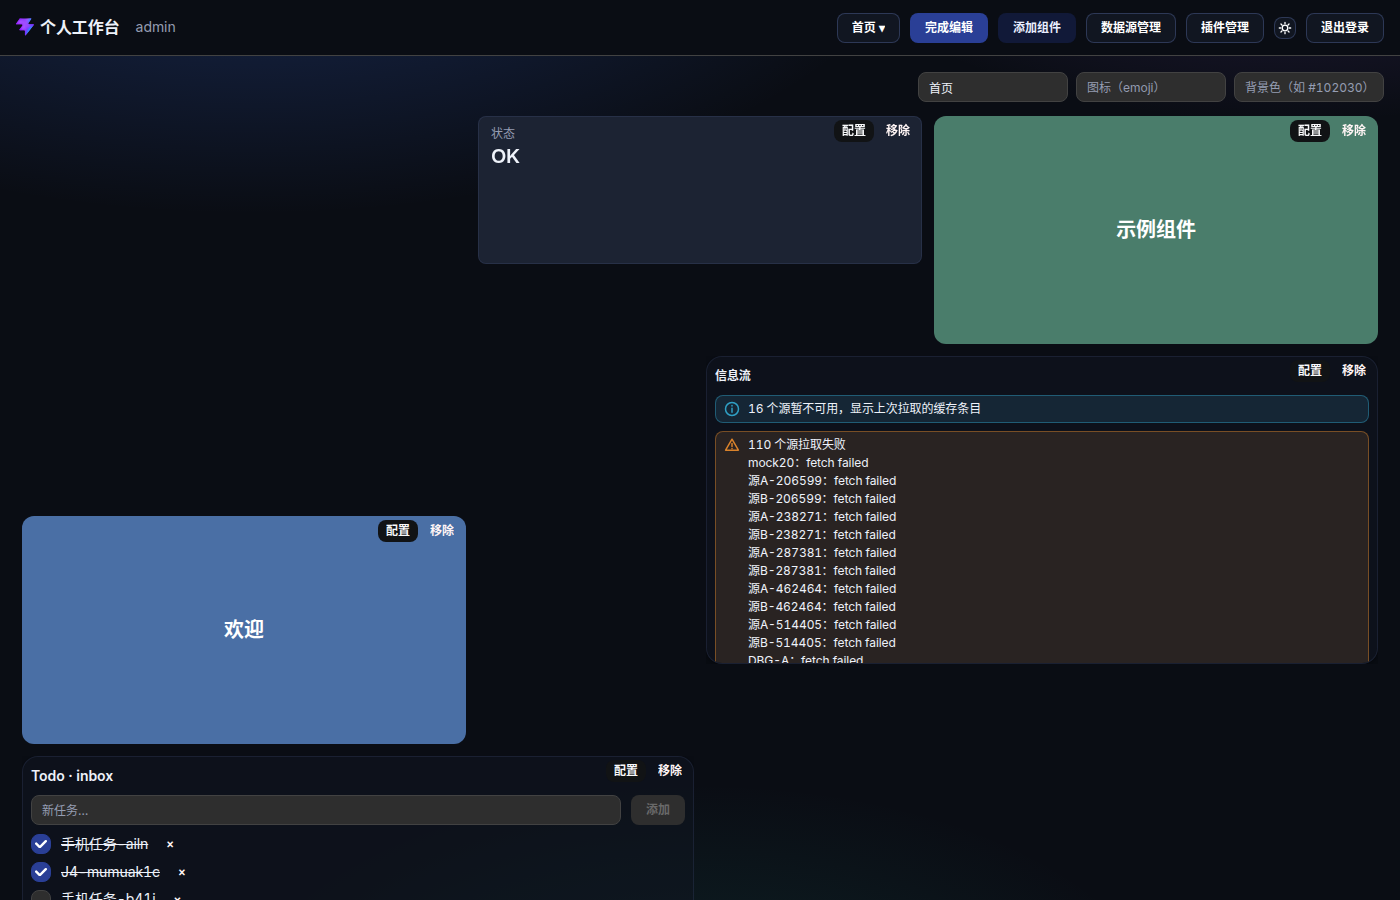
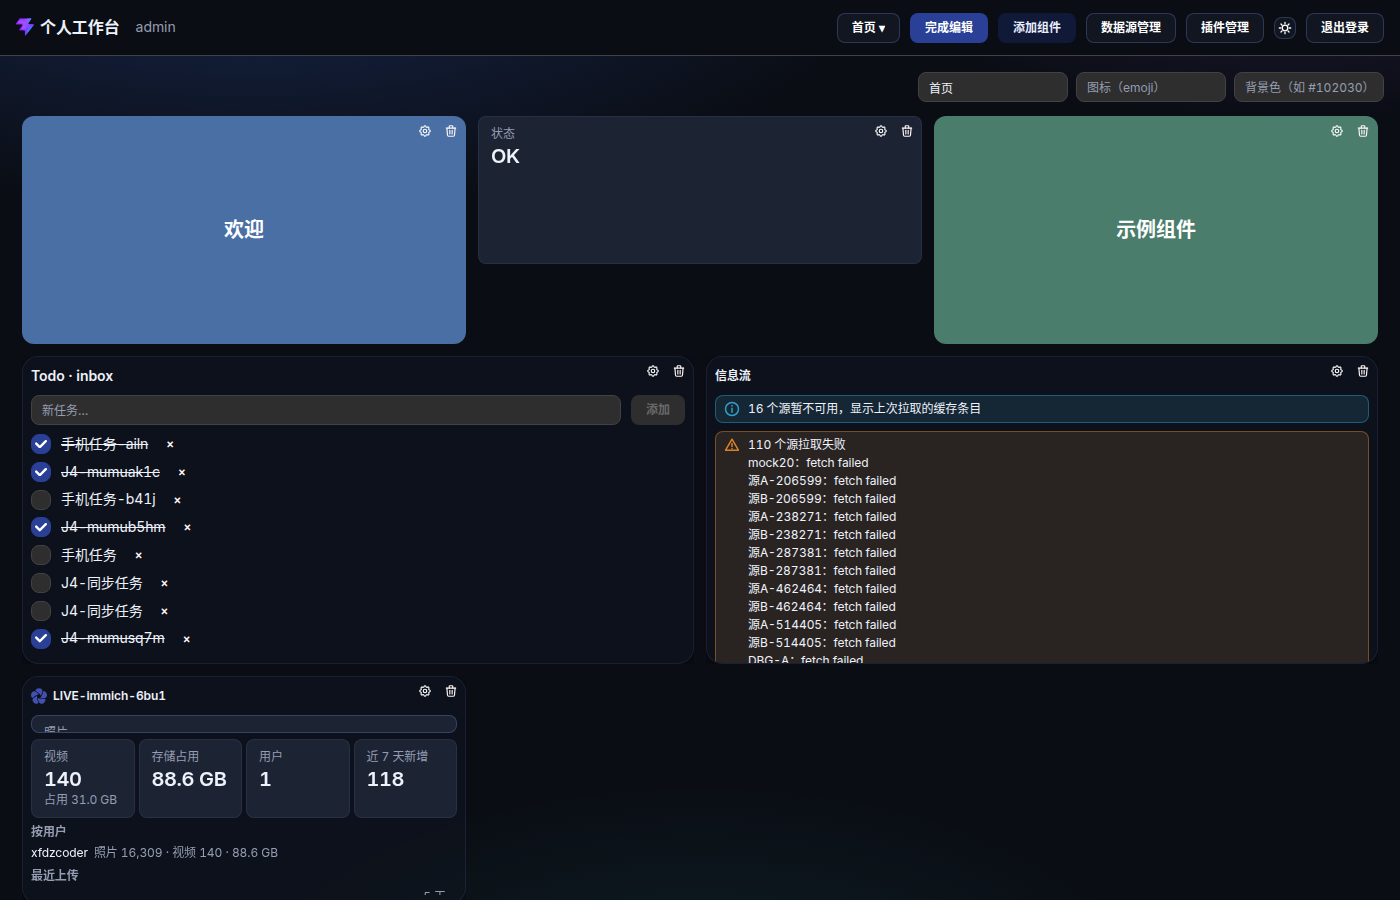
feat(web): Q65 iconify action buttons (user request) + light-theme AA bridges
- IconAction: icon + tooltip + aria-label + sr-only text (verify text matching stays compatible)
- refresh/detail/config/remove/remote controls -> tabler icons (24 spots)
- AA fixes: bridge Mantine light-variant badge label colors (3.81/3.16 -> AA),
  brighten dark danger token (4.28 -> AA), semantic wb-text--danger class
- dual-theme verify-dark 6/6; battery 9 suites 255 checks; verify-live 24/24

diff --git a/apps/web/src/navidrome-library-widget.tsx b/apps/web/src/navidrome-library-widget.tsx
@@ -1,10 +1,11 @@
+import { IconPlayerPause, IconPlayerPlay, IconPlayerSkipBack, IconPlayerSkipForward, IconPlayerStop, IconRefresh } from "@tabler/icons-react";
 import { useState } from "react";
-import { Badge, Button, Group, Modal, Text } from "@mantine/core";
+import { Badge, Group, Modal, Text } from "@mantine/core";
 
 import { useNavidromeControl, useNavidromeLibrary } from "./data-hooks";
 import { ServiceIcon } from "./service-icon";
 import { useDataSources } from "./data-hooks";
-import { WbAlert, WbLoading } from "./ui";
+import { WbAlert, WbLoading, IconAction } from "./ui";
 
 /**
  * Navidrome 专辑墙（FR-X3 只读深度，**D50**）：最近添加专辑网格 + 正在播放。
@@ -33,9 +34,7 @@ export function NavidromeLibraryWidget({
           专辑墙{row?.name ? ` · ${row.name}` : ""}
         </Text>
         <Group gap={6} wrap="nowrap" className="wb-widget__actions">
-          <Button size="compact-xs" variant="subtle" onClick={() => void refresh()}>
-            刷新
-          </Button>
+          <IconAction label="刷新" onClick={() => void refresh()}><IconRefresh size={14} /></IconAction>
         </Group>
       </Group>
 
@@ -54,23 +53,16 @@ export function NavidromeLibraryWidget({
           <Group gap={6}>
             {(
               [
-                ["prev", "上一首"],
-                ["play", "播放"],
-                ["pause", "暂停"],
-                ["next", "下一首"],
-                ["stop", "停止"],
+                ["prev", "上一首", IconPlayerSkipBack],
+                ["play", "播放", IconPlayerPlay],
+                ["pause", "暂停", IconPlayerPause],
+                ["next", "下一首", IconPlayerSkipForward],
+                ["stop", "停止", IconPlayerStop],
               ] as const
-            ).map(([act, label]) => (
-              <Button
-                key={act}
-                size="compact-xs"
-                variant="light"
-                color="blue"
-                disabled={control.busy}
-                onClick={() => control.send(act)}
-              >
-                {label}
-              </Button>
+            ).map(([act, label, Icon]) => (
+              <IconAction key={act} label={label} disabled={control.busy} onClick={() => control.send(act)}>
+                <Icon size={14} />
+              </IconAction>
             ))}
           </Group>
           <Text size="xs" c="dimmed">

diff --git a/apps/web/src/service-overview-widget.tsx b/apps/web/src/service-overview-widget.tsx
@@ -1,3 +1,4 @@
+import { IconRefresh, IconInfoCircle } from "@tabler/icons-react";
 import { useEffect, useMemo, useState } from "react";
 import { Badge, Button, Card, Group, JsonInput, Modal, Stack, Text } from "@mantine/core";
 
@@ -6,7 +7,7 @@ import type { ServiceListItem, ServiceMetric, ServiceOverview } from "@all-in-on
 import { useServiceOverview } from "./data-hooks";
 import { ServiceIcon } from "./service-icon";
 import { useDataSources } from "./data-hooks";
-import { WbAlert, WbLoading } from "./ui";
+import { WbAlert, WbLoading, IconAction } from "./ui";
 import { RelativeTime } from "./ui";
 
 /**
@@ -106,7 +107,7 @@ function ListBlock({ list }: { list: { title: string; items: ServiceListItem[] }
         )}
         {list.items.map((it, i) => (
           <Group key={`${it.title}-${i}`} gap={6} wrap="nowrap">
-            <Text size="xs" truncate fw={it.tone === "error" ? 700 : 400} c={it.tone === "error" ? "red" : undefined}>
+            <Text size="xs" truncate fw={it.tone === "error" ? 700 : 400} className={it.tone === "error" ? "wb-text--danger" : undefined}>
               {it.title}
             </Text>
             {it.detail && (
@@ -167,13 +168,9 @@ export function ServiceOverviewWidget({ sourceId, refreshSec }: { sourceId?: str
             </Badge>
           )}
           {ov && (
-            <Button size="compact-xs" variant="subtle" onClick={() => setDetailOpen(true)}>
-              详情
-            </Button>
+            <IconAction label="详情" onClick={() => setDetailOpen(true)}><IconInfoCircle size={14} /></IconAction>
           )}
-          <Button size="compact-xs" variant="subtle" onClick={() => void refresh()}>
-            刷新
-          </Button>
+          <IconAction label="刷新" onClick={() => void refresh()}><IconRefresh size={14} /></IconAction>
         </Group>
       </Group>
 

diff --git a/apps/web/src/widget-chrome.tsx b/apps/web/src/widget-chrome.tsx
@@ -1,9 +1,10 @@
 import { useContext } from "react";
 import type { ComponentType, ReactNode } from "react";
-import { Button } from "@mantine/core";
+import { IconSettings, IconTrash } from "@tabler/icons-react";
 import { useGridStack, useGridStackItem } from "gridstack/dist/react";
 
 import { WidgetEditContext } from "./widget-edit-context";
+import { IconAction } from "./ui";
 
 /**
  * 编辑态组件外框（FR-W4 生命周期"配置变更"收口）：
@@ -30,26 +31,20 @@ export function WidgetChrome({ children }: { children: ReactNode }) {
       </div>
       {editMode && (
         <div className="wb-chrome__actions">
-          <Button
-            size="compact-xs"
-            variant="light"
-            color="gray"
-            onClick={() => onConfigure(String(id))}
-          >
-            配置
-          </Button>
-          <Button
-            size="compact-xs"
-            variant="subtle"
-            color="red"
-            title="仅移除卡片；数据保留，可在「数据源管理」查看或删除"
+          <IconAction label="配置" onClick={() => onConfigure(String(id))}>
+            <IconSettings size={14} />
+          </IconAction>
+          <IconAction
+            label="移除"
+            danger
+            tooltip="移除卡片（数据保留，可在「数据源管理」查看或删除）"
             onClick={() => {
               const el = node?.el;
               if (el && grid) removeWidget(el);
             }}
           >
-            移除
-          </Button>
+            <IconTrash size={14} />
+          </IconAction>
         </div>
       )}
     </div>

diff --git a/apps/web/src/custom-api-widget.tsx b/apps/web/src/custom-api-widget.tsx
@@ -1,9 +1,10 @@
+import { IconRefresh, IconInfoCircle } from "@tabler/icons-react";
 import { useMemo, useState } from "react";
 import { Badge, Button, Group, JsonInput, Modal, Stack, Table, Text } from "@mantine/core";
 import { parseJsxTemplate } from "@all-in-one/widget-sdk";
 
 import { useCustomApiData, useResolvedSourceConfig } from "./data-hooks";
-import { WbAlert, WbLoading } from "./ui";
+import { WbAlert, WbLoading, IconAction } from "./ui";
 import { ALLOWED_TAGS, JsxTemplateView } from "./jsx-template";
 
 /**
@@ -60,13 +61,9 @@ export function CustomApiWidget(props: CustomApiConfig) {
         </Text>
         <Group gap={6} wrap="nowrap" className="wb-widget__actions">
           {data !== undefined && data !== null && (
-            <Button size="compact-xs" variant="subtle" onClick={() => setDetailOpen(true)}>
-              详情
-            </Button>
+            <IconAction label="详情" onClick={() => setDetailOpen(true)}><IconInfoCircle size={14} /></IconAction>
           )}
-          <Button size="compact-xs" variant="subtle" onClick={refresh}>
-            刷新
-          </Button>
+          <IconAction label="刷新" onClick={refresh}><IconRefresh size={14} /></IconAction>
         </Group>
       </Group>
       {loading && <WbLoading />}

diff --git a/apps/web/src/kanban-widget.tsx b/apps/web/src/kanban-widget.tsx
@@ -1,3 +1,4 @@
+import { IconRefresh } from "@tabler/icons-react";
 import { Fragment, useContext, useRef, useState } from "react";
 import {
   Button,
@@ -15,7 +16,7 @@ import type { KanbanCardRow } from "./api";
 import { ConfirmAction } from "./confirm";
 import { useKanbanBoards, useKanbanMutations, useKanbanTree } from "./data-hooks";
 import { WidgetEditContext } from "./widget-edit-context";
-import { WbAlert, WbLoading } from "./ui";
+import { WbAlert, WbLoading, IconAction } from "./ui";
 
 /**
  * Kanban 组件（二期 Q6b）：多项目看板、列与卡片、卡片操作（编辑/移动/归档/删除）。
@@ -92,9 +93,7 @@ export function KanbanWidget({ boardId, refreshSec }: { boardId?: string; refres
           >
             管理
           </Button>
-          <Button size="compact-xs" variant="subtle" onClick={() => void refresh()}>
-            刷新
-          </Button>
+          <IconAction label="刷新" onClick={() => void refresh()}><IconRefresh size={14} /></IconAction>
           {archivedCount > 0 && (
             // ISS-13 修复：计数可点 —— 打开归档列表（恢复/删除），打通归档恢复路径
             <Button size="compact-xs" variant="subtle" onClick={() => setArchiveOpen(true)}>

diff --git a/apps/web/src/monitor-widget.tsx b/apps/web/src/monitor-widget.tsx
@@ -1,8 +1,9 @@
+import { IconRefresh, IconInfoCircle } from "@tabler/icons-react";
 import { useState } from "react";
 import { Badge, Button, Card, Group, JsonInput, Modal, Progress, Stack, Text } from "@mantine/core";
 
 import { useMonitorData, useResolvedSourceConfig } from "./data-hooks";
-import { WbAlert } from "./ui";
+import { WbAlert, IconAction } from "./ui";
 
 /**
  * 服务器监控组件（FR：服务器监控；**D36 打通第三方服务，只做连接与展示**）。
@@ -77,13 +78,9 @@ export function MonitorWidget(config: { url?: string; refreshSec?: number } & Re
             </Badge>
           )}
           {data && (
-            <Button size="compact-xs" variant="subtle" onClick={() => setDetailOpen(true)}>
-              详情
-            </Button>
+            <IconAction label="详情" onClick={() => setDetailOpen(true)}><IconInfoCircle size={14} /></IconAction>
           )}
-          <Button size="compact-xs" variant="subtle" onClick={() => void refresh()}>
-            刷新
-          </Button>
+          <IconAction label="刷新" onClick={() => void refresh()}><IconRefresh size={14} /></IconAction>
         </Group>
       </Group>
 

diff --git a/apps/web/src/ui.tsx b/apps/web/src/ui.tsx
@@ -1,4 +1,39 @@
 import type { ReactNode } from "react";
+import { ActionIcon, Tooltip } from "@mantine/core";
+
+/** 图标动作按钮（Q65/D52「文字按钮尽量 icon 化」）：图标 + tooltip + aria-label + sr-only 文本。
+ *  sr-only 保留可访问名与 verify 文本匹配兼容（视觉上只剩图标）。 */
+export function IconAction({
+  label,
+  tooltip,
+  onClick,
+  danger,
+  disabled,
+  children,
+}: {
+  label: string;
+  tooltip?: string;
+  onClick?: () => void;
+  danger?: boolean;
+  disabled?: boolean;
+  children: ReactNode;
+}) {
+  return (
+    <Tooltip label={tooltip ?? label} withinPortal>
+      <ActionIcon
+        variant="subtle"
+        color={danger ? "red" : "gray"}
+        size="sm"
+        aria-label={label}
+        disabled={disabled}
+        onClick={onClick}
+      >
+        {children}
+        <span className="wb-sr-only">{label}</span>
+      </ActionIcon>
+    </Tooltip>
+  );
+}
 
 /** 骨架屏（D52 批3）：替换"加载中…"文本 —— shimmer 占位条（宽度档位在 CSS 中按序定义）。 */
 export function WbLoading({ rows = 3 }: { rows?: number }) {

diff --git a/apps/web/src/portainer-containers-widget.tsx b/apps/web/src/portainer-containers-widget.tsx
@@ -1,10 +1,11 @@
+import { IconRefresh } from "@tabler/icons-react";
 import { useState } from "react";
-import { Badge, Button, Code, Group, Modal, Stack, Text } from "@mantine/core";
+import { Badge, Code, Group, Modal, Stack, Text } from "@mantine/core";
 
 import { usePortainerContainers, usePortainerLogs } from "./data-hooks";
 import { ServiceIcon } from "./service-icon";
 import { useDataSources } from "./data-hooks";
-import { WbAlert, WbLoading } from "./ui";
+import { WbAlert, WbLoading, IconAction } from "./ui";
 
 /**
  * Portainer 容器清单（FR-X3 只读深度，**D50**）：状态/端口/镜像，点行看日志尾部（只读）。
@@ -33,9 +34,7 @@ export function PortainerContainersWidget({ sourceId, refreshSec }: { sourceId?:
               {containers.length - abnormal.length}/{containers.length} 正常
             </Badge>
           )}
-          <Button size="compact-xs" variant="subtle" onClick={() => void refresh()}>
-            刷新
-          </Button>
+          <IconAction label="刷新" onClick={() => void refresh()}><IconRefresh size={14} /></IconAction>
         </Group>
       </Group>
 

diff --git a/apps/web/src/todo-widget.tsx b/apps/web/src/todo-widget.tsx
@@ -1,10 +1,11 @@
+import { IconRefresh } from "@tabler/icons-react";
 import { useEffect, useState } from "react";
 import { Button, Checkbox, Group, List, Modal, Stack, Text, TextInput } from "@mantine/core";
 
 import type { TodoItem } from "./api";
 import { ConfirmAction } from "./confirm";
 import { useDraft, useTodoMutations, useTodos } from "./data-hooks";
-import { RelativeTime, WbAlert, WbLoading } from "./ui";
+import { RelativeTime, WbAlert, WbLoading, IconAction } from "./ui";
 
 /** Todo 组件配置（configSchema 元数据见 widget-manifests.ts）。
  *  gridstack 直接把布局 JSON 的 props 展开传入，即扁平 config 形态。 */
@@ -53,9 +54,7 @@ export function TodoWidget({ name, list = "inbox", filter = "open", refreshSec }
           Todo · {group}
         </Text>
         <Group gap={6} wrap="nowrap" className="wb-widget__actions">
-          <Button size="compact-xs" variant="subtle" onClick={refresh}>
-            刷新
-          </Button>
+          <IconAction label="刷新" onClick={refresh}><IconRefresh size={14} /></IconAction>
         </Group>
       </Group>
       <Group gap="xs">

diff --git a/apps/web/src/mihomo-nodes-widget.tsx b/apps/web/src/mihomo-nodes-widget.tsx
@@ -1,9 +1,10 @@
-import { Badge, Button, Group, Stack, Text } from "@mantine/core";
+import { IconRefresh } from "@tabler/icons-react";
+import { Badge, Group, Stack, Text } from "@mantine/core";
 
 import { useMihomoNodes } from "./data-hooks";
 import { ServiceIcon } from "./service-icon";
 import { useDataSources } from "./data-hooks";
-import { WbAlert, WbLoading } from "./ui";
+import { WbAlert, WbLoading, IconAction } from "./ui";
 
 /**
  * Mihomo 节点面板（FR-X3 只读深度，**D50**）：策略组选择 / 节点延迟 / 订阅源。
@@ -22,9 +23,7 @@ export function MihomoNodesWidget({ sourceId, refreshSec }: { sourceId?: string;
           节点面板{row?.name ? ` · ${row.name}` : ""}
         </Text>
         <Group gap={6} wrap="nowrap" className="wb-widget__actions">
-          <Button size="compact-xs" variant="subtle" onClick={() => void refresh()}>
-            刷新
-          </Button>
+          <IconAction label="刷新" onClick={() => void refresh()}><IconRefresh size={14} /></IconAction>
         </Group>
       </Group>
 

diff --git a/apps/web/src/opencode-widget.tsx b/apps/web/src/opencode-widget.tsx
@@ -1,8 +1,9 @@
+import { IconRefresh } from "@tabler/icons-react";
 import { useState } from "react";
-import { Badge, Button, Card, Group, Modal, Stack, Text } from "@mantine/core";
+import { Badge, Card, Group, Modal, Stack, Text } from "@mantine/core";
 
 import { useOpencodeData, useResolvedSourceConfig, type OpencodeSession } from "./data-hooks";
-import { RelativeTime, WbAlert, WbLoading } from "./ui";
+import { RelativeTime, WbAlert, WbLoading, IconAction } from "./ui";
 
 /**
  * OpenCode 组件（FR-E4/06 §1）：会话列表 / 状态 / 耗时 + API 版本探测。
@@ -44,9 +45,7 @@ export function OpencodeWidget(config: { url?: string; limit?: number } & Record
               探测失败
             </Badge>
           )}
-          <Button size="compact-xs" variant="subtle" onClick={() => void refresh()}>
-            刷新
-          </Button>
+          <IconAction label="刷新" onClick={() => void refresh()}><IconRefresh size={14} /></IconAction>
         </Group>
       </Group>
 

diff --git a/apps/web/src/styles/tokens.css b/apps/web/src/styles/tokens.css
@@ -38,7 +38,7 @@
   --wb-color-accent-hover: #6a92ff;
   --wb-color-success: #2f9e63;
   --wb-color-warning: #d9822b;
-  --wb-color-danger: #d64545;
+  --wb-color-danger: #e35d5d;
   --wb-color-info: #2f9fc4;
   --wb-color-accent-glow: rgba(63, 99, 232, 0.35);
 
@@ -90,6 +90,12 @@
 
 /* ── 浅色主题（Q63 接线切换；值先备齐，AA 双主题守护） ─────── */
 :root[data-theme="light"] {
+  /* AA 桥接（Q65）：Mantine 亮色变体徽标标签色实测 3.81/3.16 不达 AA —— 按语义加深（!important 压 Mantine 运行时注入） */
+  --mantine-color-green-light-color: #146c36 !important;
+  --mantine-color-red-light-color: #a01f1f !important;
+  --mantine-color-orange-light-color: #8a4b08 !important;
+  --mantine-color-blue-light-color: #23459c !important;
+  --mantine-color-dark-light-color: var(--wb-color-text) !important;
   --wb-color-bg: #f4f6fb;
   --wb-color-surface: rgba(255, 255, 255, 0.72);
   --wb-color-surface-hover: rgba(255, 255, 255, 0.86);
